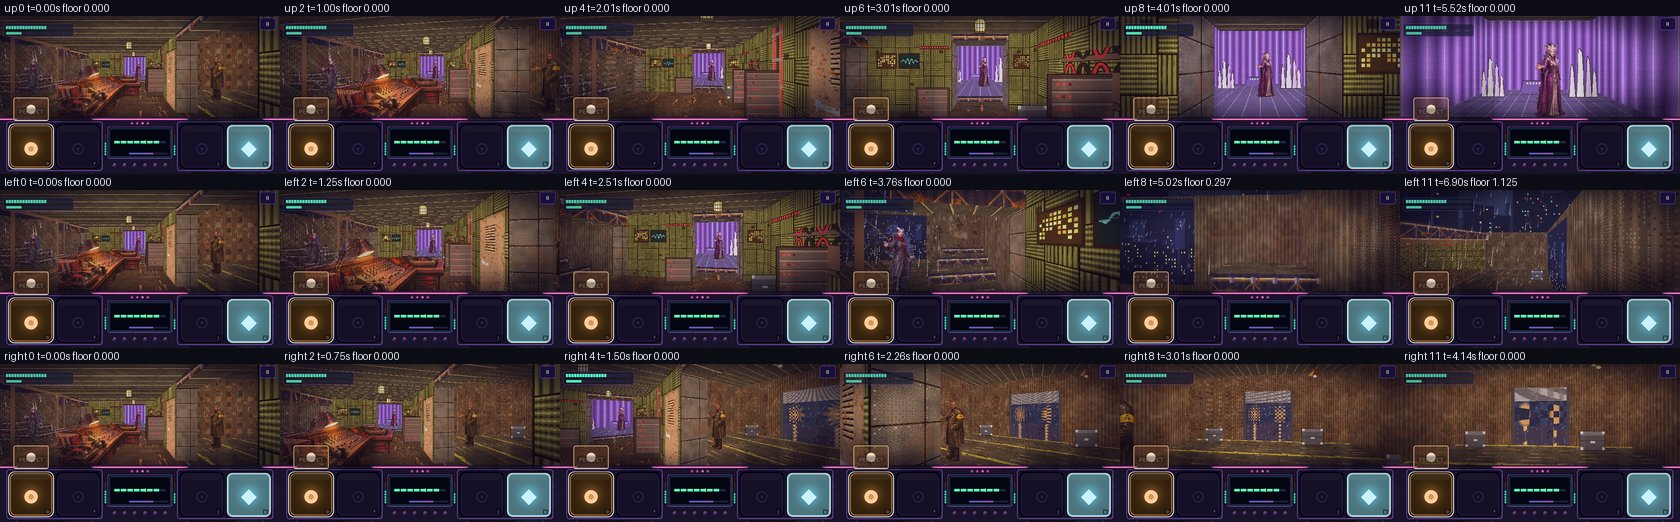
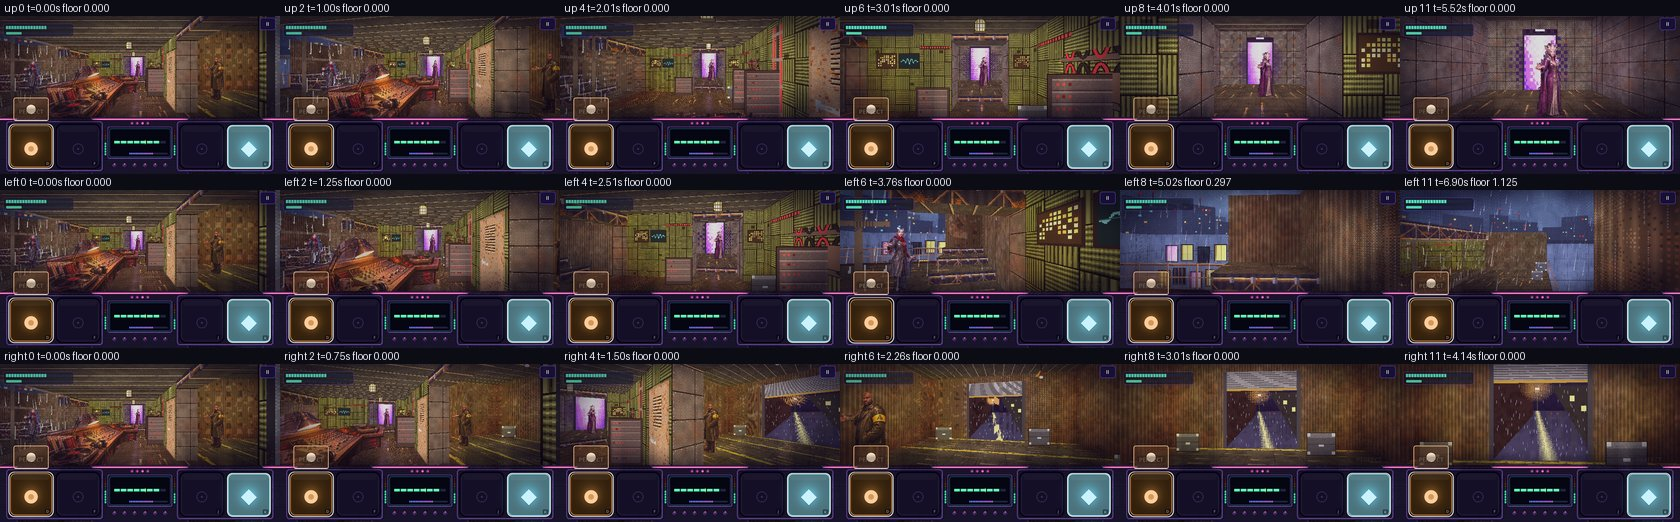
Doom polish round 2: Dock, Balcony, Booth scene docs (the lead's list ticked or carried, before/after exposure, guide states) and refreshed shots

diff --git a/docs/doom/scenes/balcony.md b/docs/doom/scenes/balcony.md
@@ -63,3 +63,64 @@ ALL                     0.08  0.24  0.46  0.47    0.0%   0.1%  contrast p95-p5 0
 ## Placeholders and not done
 
 Placeholders: the textures, props and decals are procedural (`tools/doom/art/make_balcony_art.py`: the stage D 256 px tiles, sky and tower billboards on the Dock's helpers; the dish, lace dome, forklift, racks and cases are the earlier flat placeholders); the music (Warehouse arrangements). The guides are crops. Two plain drops (`isle` to `vw2`, `isle` to `ve2`) stay open without a railing because the loader needs every void joined to the map by one open portal. No `src/` change was made. Regenerate: `python -I tools/doom/trace/balcony_scene.py; python -I tools/doom/convert.py --scene balcony --trace tools/doom/trace/balcony_pilot.json; python -I tools/doom/art/make_balcony_art.py; python -I tools/doom/author_balcony.py`, then `--import`, then `python tools/doom/shoot_balcony.py`.
+
+## Stage D polish, round 2 (docs/briefs/DOOM_POLISH_ROUND2_BRIEF.md)
+
+**Correction to round 1:** the round 1 section above claims "the moon and the city over the drop" as matching. The round 1 sheet did not show that: at `bc_ref` the towers hid the moon and the drops were dark pits.
+
+**The lead's list, ticked or carried:**
+
+- [~] **The drop and the city must dominate the reference view (lower the parapets, the moon in frame, the wet deck reflecting the city, the brick box open on three sides).**
+  - Done: the drop's walls stop at 1.25 m, under the eye. They were 2.4 m, a dark band across the view. Seen over them, the drop's far walls are the lit facades of the buildings below: concrete in three variants with single windows on a jittered grid (`facade_windows()`, about half lit) and the yard's blue-lit shutters at their feet.
+  - Done: the drop is wider (32 x 24 m, five voids). The deck's own walls (the cabin front) stop at 4 m and the brick stair-house at 7 m, so the box is open ahead and over both sides.
+  - Done: the tower billboards that hid the moon are gone. The moon is redrawn over a lower skyline (az -21, 16 degrees up) and is in the 16:9 and 20:9 reference shots. The choice viewpoint holds a pitch of -4 (`make_doom_balcony.PITCH`).
+  - Carried: from `bc_ref`, 7 m back from the deck's edge, the eye cannot see down into the drop. It shows as the far facades and the yard's lights, not as the painting's plunging view, which would need the viewpoint at the edge and the stair and cabin guides would then be out of frame. The deck's gloss is the engine's lamp bands, not a reflection of the city.
+- [x] **The pink equaliser shapes at `hold_stair` go.** All four `bc_eq_*` decals are removed. The stair view now looks over the landing towards the drop, the lace dome and the city.
+- [x] **`hold_bridge` and `route_ahead` at p50 0.17: the drop needs its own light.** The drop is lit by its lit windows, the blue shutter lamps and sodium lamps on the yard floor. The skyline and storm sky are lighter (moonlit blue), the fog is thinner (0.008) and the bridge grating shows the hazy drop, not black. All eight shots are inside the rule (table below).
+- [~] **The dish and lace dome are flat placeholders; the Mothership guide is 85 px; the moon is hidden.**
+  - Done: the lace dome is new (`p_lace`: a cream filigree half-dome with open holes and warm lamps at its foot, emissive) and is 4.2 m over the tower's violet door.
+  - Done: the moon is in frame (above).
+  - Carried: the Mothership guide is 76 px at 16:9 (`test_doom_views`). The dish moved onto the cabin's roof but is still the flat placeholder.
+- [x] **(Review) 0 of 8 shots in the rule; the Mothership guide cannot be picked out by eye.** All 8 shots are in the rule now. She stands at the platform's front edge (-0.7, 16.7) under a warm key light, with a violet rim light and the violet door behind her.
+- [x] **(Review) Selected and committed guide-state captures.** They are the last row of `contact.jpg` (`tools/doom/guide_states.py`, the Mothership guide tapped).
+- [x] **(Found in round 2) The choice window was not held at the reference viewpoint on a real run.** The stay loop is now one reveal (`bc_bridge_view`) and the choice viewpoint. A real-run timeline shows `bc_ref` held from beat 44 to 62. `bc_stair_view` and `bc_cabin_view` are views in the map, no longer on the rail.
+
+**Other changes:**
+- The bridge and the platform are level with the deck. The three 1 m steps went: the drop's walls must stay above a railing's top.
+- The left threshold is at the alley's end, before the club's side door (the door's light is brighter).
+- The right threshold is at the cabin's back door.
+- The cabin view turns to the painting's composition: the lit cabin window with its equaliser glow, the Booth guide in the door, the drop and the city on the left.
+
+**Guides at the reference viewpoint (`test_doom_views`, 16:9 and 20:9 alike):** Mothership 76 px, Floor 190 px, Booth 206 px (at the pitched pose, -4); all three CROPPED (unchanged from round 1). No rings or beacons.
+
+**Exposure (`tools/doom/frame_check.py`, 16:9 shots, the picture only), 8 of 8 shots inside the rule (p50 0.25 to 0.38, p95 - p5 over 0.4).** Before round 2 (the merged head, same tool):
+
+```
+shot                      p5   p50   p95   sat   crush  blown  target
+arrive                  0.09  0.24  0.44  0.46    0.0%   0.0%  off
+hold_bridge             0.07  0.17  0.59  0.52    0.0%   0.1%  off
+hold_cabin              0.12  0.24  0.43  0.40    0.0%   0.0%  off
+hold_stair              0.10  0.28  0.48  0.47    0.0%   0.1%  off
+ref                     0.09  0.24  0.43  0.44    0.0%   0.1%  off
+route_ahead             0.06  0.17  0.49  0.56    0.0%   0.4%  off
+route_left              0.13  0.27  0.42  0.46    0.0%   0.0%  off
+route_right             0.14  0.29  0.43  0.44    0.0%   0.0%  off
+ALL                     0.08  0.24  0.46  0.47    0.0%   0.1%  contrast p95-p5 0.39
+```
+
+After:
+
+```
+shot                      p5   p50   p95   sat   crush  blown  target
+arrive                  0.11  0.26  0.53  0.43    0.0%   0.6%  ok
+hold_bridge             0.11  0.26  0.66  0.43    0.0%   1.5%  ok
+hold_cabin              0.11  0.25  0.53  0.43    0.0%   0.0%  ok
+hold_stair              0.13  0.27  0.55  0.45    0.0%   0.1%  ok
+ref                     0.12  0.26  0.53  0.41    0.0%   0.7%  ok
+route_ahead             0.11  0.26  0.70  0.44    0.0%   1.9%  ok
+route_left              0.14  0.26  0.70  0.36    0.0%   0.0%  ok
+route_right             0.13  0.25  0.59  0.35    0.0%   0.0%  ok
+ALL                     0.12  0.26  0.62  0.41    0.0%   0.6%  contrast p95-p5 0.50
+```
+
+**Shots:** `docs/shots/doom/balcony/contact.jpg` (the painting beside the reference shot, every viewpoint at 16:9 and 20:9, and a last row of guide states on the real rail: selected at beat 47, committed at 51.5 and the walk at 52.5. The tap commits at its own beat (ruling 39), so the committed frame is already on the walk-off. At the reference view the tapped guide's state sprite is small) and `walk_strip.jpg` with `walk_*.txt`. Regenerate them with `python3 tools/doom/shoot_balcony.py` (`RW_KEEP=<dir>` keeps the full-size frames for `frame_check`). The hold views that left the rail (see above) are still shot as views.

diff --git a/docs/doom/scenes/dock.md b/docs/doom/scenes/dock.md
@@ -63,3 +63,52 @@ ALL                     0.13  0.28  0.56  0.40    0.0%   0.1%  contrast p95-p5 0
 ## Placeholders and not done
 
 Placeholders: the textures, props and decals are procedural (`tools/doom/art/make_dock_art.py`; the 256 px tiles drawn to the style guide, the props older); the music (Warehouse arrangements). The guides are crops of the paintings, not placeholders. No `src/` change was made. Regenerate: `python -I tools/doom/art/make_dock_art.py; python -I tools/doom/author_dock.py`, then `--import`, then `python tools/doom/shoot_dock.py`.
+
+## Stage D polish, round 2 (docs/briefs/DOOM_POLISH_ROUND2_BRIEF.md)
+
+**The lead's list, ticked or carried:**
+
+- [x] **The skyline is a repeating lit-window tile on tall walls.** The tower tiles are gone. The street's own walls are the club's brick (west) and corrugated steel (east), 6.5 m, and the far buildings are dark facades (`dk_wall_bldg_a/b/c`, `dk_wall_brown_a/b`) in 3-4 m stretches of three variants. Single windows are placed one at a time as decals, few of them lit. The city is a silhouette skyline in the sky strip (`make_dock_art.p_sky2`), and it shows over the lower walls.
+- [~] **The wet street must read as warm sodium pools with deep shadow between.** Done in part. Every open sector's floor is fully wet (`wet` 1.0), so the engine's gloss bands under the sodium lamps are the brightest thing on the ground. The flat fills (the moon fill, the blue street fill) are cut to 0.3. The street lamps' reach is smaller (6 m). Carried: between the pools the asphalt is still a blue-grey mid-tone. The exposure rule (p50 at least 0.25) does not allow the painting's near-black street (the painting measures p50 0.14).
+- [x] **The club passage is a flat blue LED corridor.** It is now a dark brick tunnel (`dk_wall_tunnel`, a dark sooty ceiling, a wet floor with gloss) with three caged wall lamps. It ends at a violet-lit door (`dk_violet_door`). The doorway keeps the painting's blue light and two blue LED strips at its jambs. The left threshold stands 4 m before the violet door.
+- [x] **`route_ahead` p50 0.22, `route_left` contrast 0.27, `arrive` and `hold_door` just under.** All eight shots are inside the rule (table below).
+- [x] **The street is straight; the painting's curves left.** The street now runs 12.5 m and turns left (`bend`, a second sector) in front of the brown building at its end (`street_far`). That building has a lit doorway, shopfront windows, a lamp and the fourth lamp's pool. It is a square turn, not a curve.
+- [x] **(Review) `route_ahead` held on an empty dark street.** The ahead threshold `dk_moth` now stops at (0.4, 12.4), 4 m before the Mothership guide. It faces her, with the brown building's lit door, windows and lamps behind her and the street turning left.
+- [x] **(Review) Selected and committed guide-state captures.** They are the last row of `contact.jpg`, shot on the real run by `tools/doom/guide_states.py` with the Mothership guide tapped: selected (a pre-window touch), committed (a tap in the window) and the first walk frame.
+- [x] **(Found in round 2) The choice window did not happen at the reference viewpoint.** On a real run (the bot, `RW_RUN_VIRTUAL`), the rail moves one place per passed block. With round 1's four-place stay loop the camera was still walking between the door and the yard views when the window opened (beats 49-60). The stay loop is now one reveal (`dk_street_view`) and the choice viewpoint. A real-run timeline (beats 44-62) shows the camera still at `dk_ref` through the window. `dk_door_view` and `dk_yard_view` stay in the map as views (they are shot below) but are no longer on the rail.
+
+Also carried: the near right of the painting (the big flight case, the shutter close by) is still thin. The furnace and van are flat billboards. The fence is a wall decal.
+
+**Guides at the reference viewpoint (`test_doom_views`, 16:9 and 20:9 alike):** Mothership 74 px, Floor 163 px, Underworld 107 px; all three CROPPED (unchanged from round 1). No rings or beacons.
+
+**Exposure (`tools/doom/frame_check.py`, 16:9 shots, the picture only), 8 of 8 shots inside the rule (p50 0.25 to 0.38, p95 - p5 over 0.4).** Before round 2 (the merged head, same tool):
+
+```
+shot                      p5   p50   p95   sat   crush  blown  target
+arrive                  0.15  0.29  0.54  0.34    0.0%   0.0%  off
+hold_door               0.13  0.28  0.50  0.51    0.0%   0.1%  off
+hold_street             0.13  0.25  0.61  0.38    0.0%   0.1%  ok
+hold_yard               0.12  0.33  0.60  0.25    0.0%   0.0%  ok
+ref                     0.14  0.29  0.54  0.35    0.0%   0.0%  ok
+route_ahead             0.12  0.22  0.48  0.43    0.0%   0.0%  off
+route_left              0.13  0.26  0.40  0.64    0.0%   0.1%  off
+route_right             0.11  0.29  0.58  0.29    0.0%   0.1%  ok
+ALL                     0.13  0.28  0.56  0.40    0.0%   0.1%  contrast p95-p5 0.43
+```
+
+After:
+
+```
+shot                      p5   p50   p95   sat   crush  blown  target
+arrive                  0.12  0.29  0.55  0.33    0.0%   0.1%  ok
+hold_door               0.11  0.26  0.55  0.39    0.0%   0.1%  ok
+hold_street             0.11  0.27  0.60  0.35    0.0%   0.2%  ok
+hold_yard               0.14  0.33  0.60  0.23    0.0%   0.0%  ok
+ref                     0.11  0.29  0.54  0.33    0.0%   0.1%  ok
+route_ahead             0.13  0.26  0.55  0.38    0.0%   0.0%  ok
+route_left              0.12  0.26  0.70  0.44    0.0%   1.2%  ok
+route_right             0.13  0.30  0.53  0.26    0.0%   0.1%  ok
+ALL                     0.12  0.28  0.57  0.34    0.0%   0.2%  contrast p95-p5 0.45
+```
+
+**Shots:** `docs/shots/doom/dock/contact.jpg` (the painting beside the reference shot, every viewpoint at 16:9 and 20:9, and a last row of guide states on the real rail: selected at beat 47, committed at 51.5 and the walk at 52.5. The tap commits at its own beat (ruling 39), so the committed frame is already on the walk-off. At the reference view the tapped guide's state sprite is small) and `walk_strip.jpg` with `walk_*.txt`. Regenerate them with `python3 tools/doom/shoot_dock.py` (`RW_KEEP=<dir>` keeps the full-size frames for `frame_check`). The hold views that left the rail (see above) are still shot as views.

diff --git a/docs/doom/scenes/booth.md b/docs/doom/scenes/booth.md
@@ -63,3 +63,56 @@ ALL                     0.11  0.24  0.47  0.42    0.0%   0.1%  contrast p95-p5 0
 ## Placeholders and not done
 
 Placeholders: the textures, props and decals are procedural (`tools/doom/art/make_booth_art.py`, overwritten in part by `make_booth_polish.py`; the racks, cases, crystals, console, screens and the Mothership chamber's tiles are the earlier flat placeholders); the music (Warehouse arrangements). The desk and the guides are crops of the painting. No `src/` change was made. Regenerate: `python -I tools/doom/trace/booth_scene.py; python -I tools/doom/convert.py --scene booth --trace tools/doom/trace/booth_pilot.json; python -I tools/doom/art/make_booth_art.py; python -I tools/doom/author_booth.py`, then `--import`, then `python tools/doom/shoot_booth.py`.
+
+## Stage D polish, round 2 (docs/briefs/DOOM_POLISH_ROUND2_BRIEF.md)
+
+**The lead's list, ticked or carried:**
+
+- [x] **The desk is a camera-facing cut-out that looms on the aisle walk: anchor it.** `bt_desk_big` is now a decal with an explicit yaw (`FREE_DECALS` in `author_booth.py`): a fixed quad facing `bt_ref`. From the reference viewpoint it reads exactly as before. On the walks it stays put instead of turning to the camera. `test_booth_the_desk_is_anchored_facing_the_reference_viewpoint` checks it.
+- [x] **The Mothership chamber is a garish violet box with crystal spires.** The crystals and the console are gone. The chamber is dark riveted steel with a wet floor, lit by one violet portal (`bt_moth_portal`, 4 m) behind the guide and a soft key light on her.
+- [~] **The window wall: the balcony and the skyline with rain on the glass; the steel leaf of the dock door; the crude shutter street.**
+  - Done: the window is glass, not mesh (`window_glass`: a frame, mullion and transom, clear panes with rain streaks and drops).
+  - Done: through it the iron balcony now stands over a drop (`drop_a`, `drop_b`: voids behind the Balcony's iron rail). Across the drop is a lit facade (windows placed one by one), with a lighter moonlit storm sky and skyline over it.
+  - Done: the dock door's thick steel leaf (louvre, push bar, rivets) is a decal against the aisle wall.
+  - Done: the shutter's street is redrawn in perspective (dark walls, a sodium lamp and its long reflection, tail lights, rain).
+  - Carried: the drop's facade reads as a flat blue wall in `route_left`. The shutter street is still a decal, not geometry.
+- [~] **Contrast 0.36 aggregate; `hold_window` and `route_left` at p50 0.20-0.21.** Raised but not inside the rule: 2 of 8 shots in it (table below). Lamp gain, reach, ambient and wet gloss moved the booth's numbers by 0.01 at most. The remaining gap is in the textures (olive foam, corrugated brown, flat mid-tones) and the few large bright areas. It is carried to an art pass on the booth's tiles.
+- [x] **(Review) The booth block of `test_doom_views.gd` lacks the wall-sightline check.** Added: `test_booth_each_guide_is_seen_from_the_reference_viewpoint_no_solid_wall_between`.
+- [x] **(Review) Selected and committed guide-state captures.** They are the last row of `contact.jpg` (`tools/doom/guide_states.py`, the Mothership guide tapped).
+- [x] **(Found in round 2) The choice window was not held at the reference viewpoint on a real run.** The stay loop is now one reveal (`bt_hatch_view`) and the choice viewpoint. A real-run timeline shows `bt_ref` held from beat 44 to 62. `bt_window_view` and `bt_dock_view` are views in the map, no longer on the rail.
+
+**Other changes:** the right threshold stands in the dock (5.4, 4.4), facing the open shutter.
+
+**Guides at the reference viewpoint (`test_doom_views`, 16:9 and 20:9 alike):** Mothership 84 px, Balcony 174 px, Dock 213 px; all three CROPPED (unchanged from round 1). No rings or beacons.
+
+**Exposure (`tools/doom/frame_check.py`, 16:9 shots, the picture only), 2 of 8 shots inside the rule (p50 0.25 to 0.38, p95 - p5 over 0.4).** Before round 2 (the merged head, same tool):
+
+```
+shot                      p5   p50   p95   sat   crush  blown  target
+arrive                  0.10  0.24  0.45  0.43    0.1%   0.0%  off
+hold_dock               0.14  0.26  0.40  0.40    0.0%   0.0%  off
+hold_hatch              0.11  0.27  0.49  0.44    0.1%   0.0%  off
+hold_window             0.11  0.20  0.34  0.36    0.0%   0.0%  off
+ref                     0.10  0.23  0.45  0.43    0.1%   0.0%  off
+route_ahead             0.16  0.33  0.67  0.46    0.0%   0.1%  ok
+route_left              0.10  0.21  0.34  0.38    0.0%   0.0%  off
+route_right             0.13  0.24  0.40  0.42    0.0%   0.0%  off
+ALL                     0.11  0.24  0.47  0.42    0.0%   0.1%  contrast p95-p5 0.36
+```
+
+After:
+
+```
+shot                      p5   p50   p95   sat   crush  blown  target
+arrive                  0.11  0.26  0.51  0.37    0.1%   0.1%  ok
+hold_dock               0.14  0.26  0.44  0.42    0.0%   0.0%  off
+hold_hatch              0.11  0.27  0.50  0.42    0.1%   0.2%  off
+hold_window             0.11  0.24  0.47  0.35    0.0%   0.1%  off
+ref                     0.11  0.24  0.49  0.41    0.0%   0.1%  off
+route_ahead             0.12  0.25  0.55  0.26    0.1%   0.9%  ok
+route_left              0.12  0.24  0.45  0.39    0.0%   0.0%  off
+route_right             0.10  0.22  0.39  0.44    0.0%   0.1%  off
+ALL                     0.12  0.25  0.48  0.38    0.0%   0.2%  contrast p95-p5 0.36
+```
+
+**Shots:** `docs/shots/doom/booth/contact.jpg` (the painting beside the reference shot, every viewpoint at 16:9 and 20:9, and a last row of guide states on the real rail: selected at beat 47, committed at 51.5 and the walk at 52.5. The tap commits at its own beat (ruling 39), so the committed frame is already on the walk-off. At the reference view the tapped guide's state sprite is small) and `walk_strip.jpg` with `walk_*.txt`. Regenerate them with `python3 tools/doom/shoot_booth.py` (`RW_KEEP=<dir>` keeps the full-size frames for `frame_check`). The hold views that left the rail (see above) are still shot as views.
